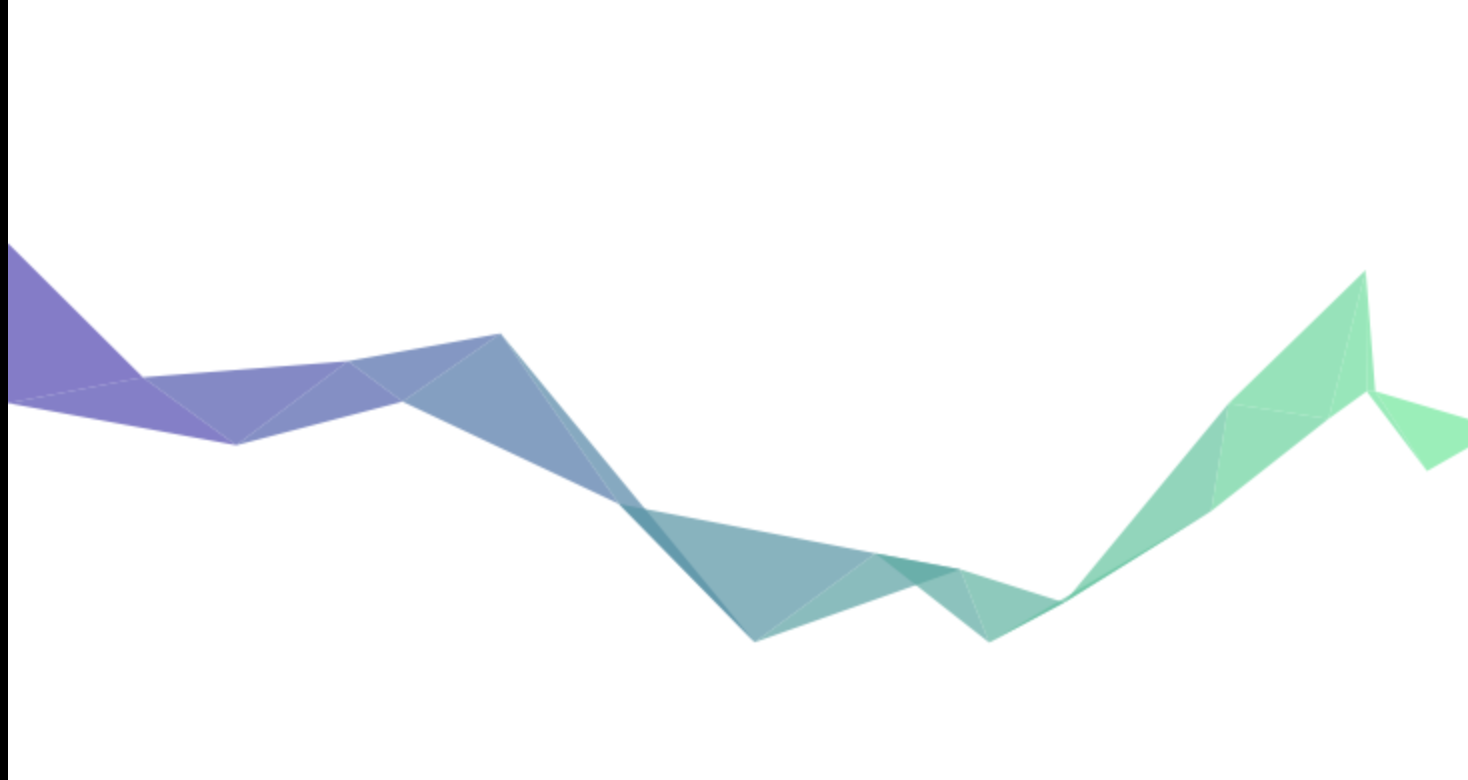
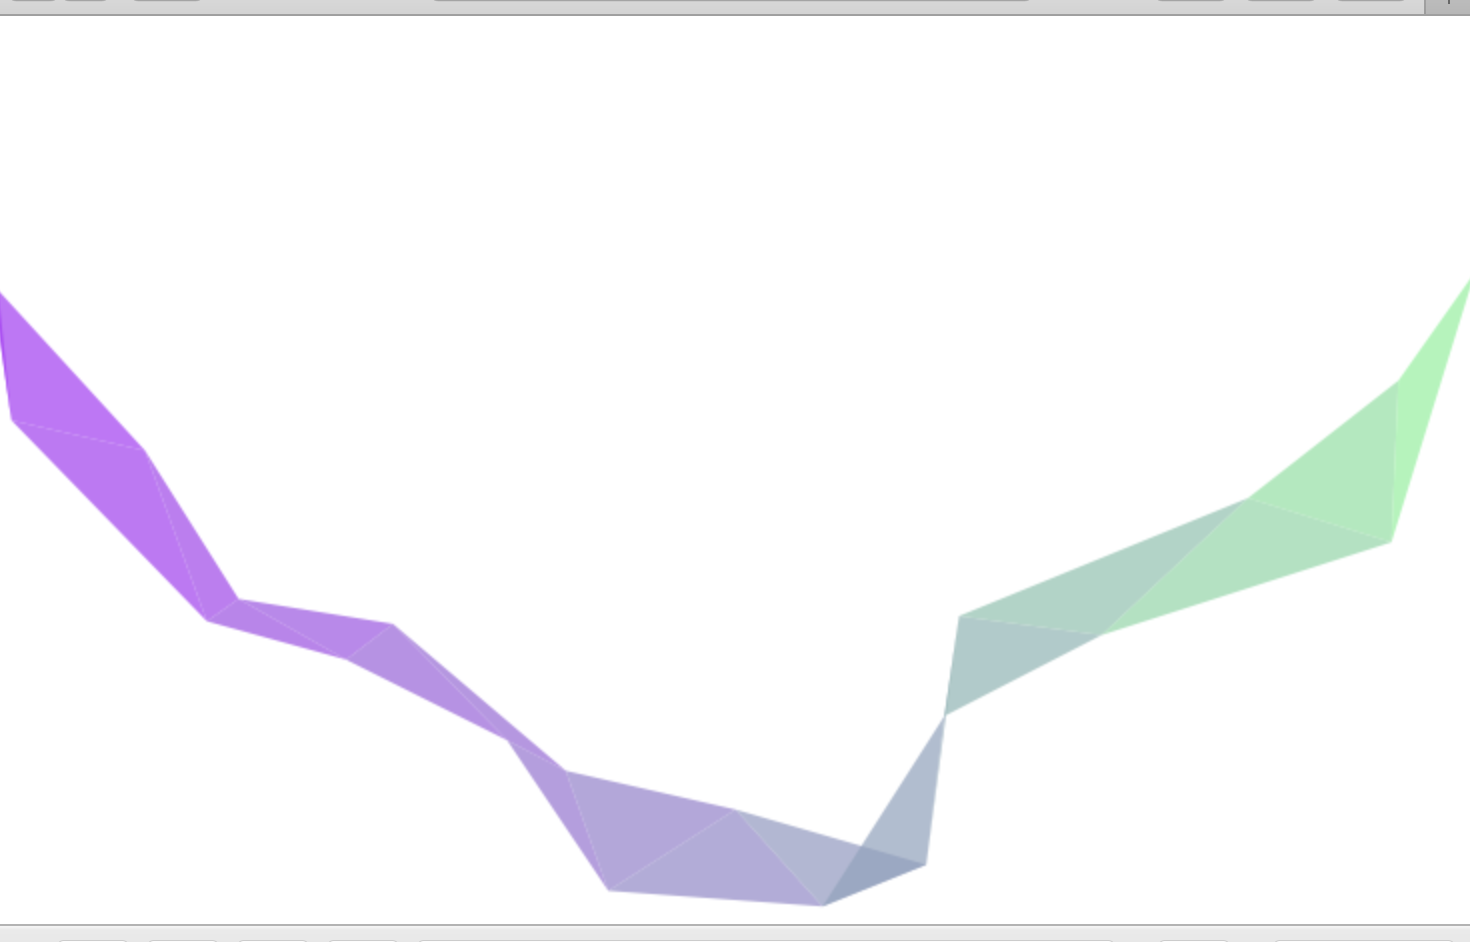
belt readme

Changed region(s): [[0.3372, 0.3077, 1.0, 0.9846], [0.0, 0.0, 1.0, 1.0]]

diff --git a/README.md b/README.md
@@ -9,3 +9,10 @@
 > [code](https://github.com/vincentmrlau/active-background/tree/master/src/active-particle)
 
 ![](https://raw.githubusercontent.com/vincentmrlau/active-background/master/images/particle.png)
+
+##	betl
+> look like a belt
+> 
+
+![](https://raw.githubusercontent.com/vincentmrlau/active-background/master/images/belt-1.png)
+![](https://raw.githubusercontent.com/vincentmrlau/active-background/master/images/belt-2.png)
